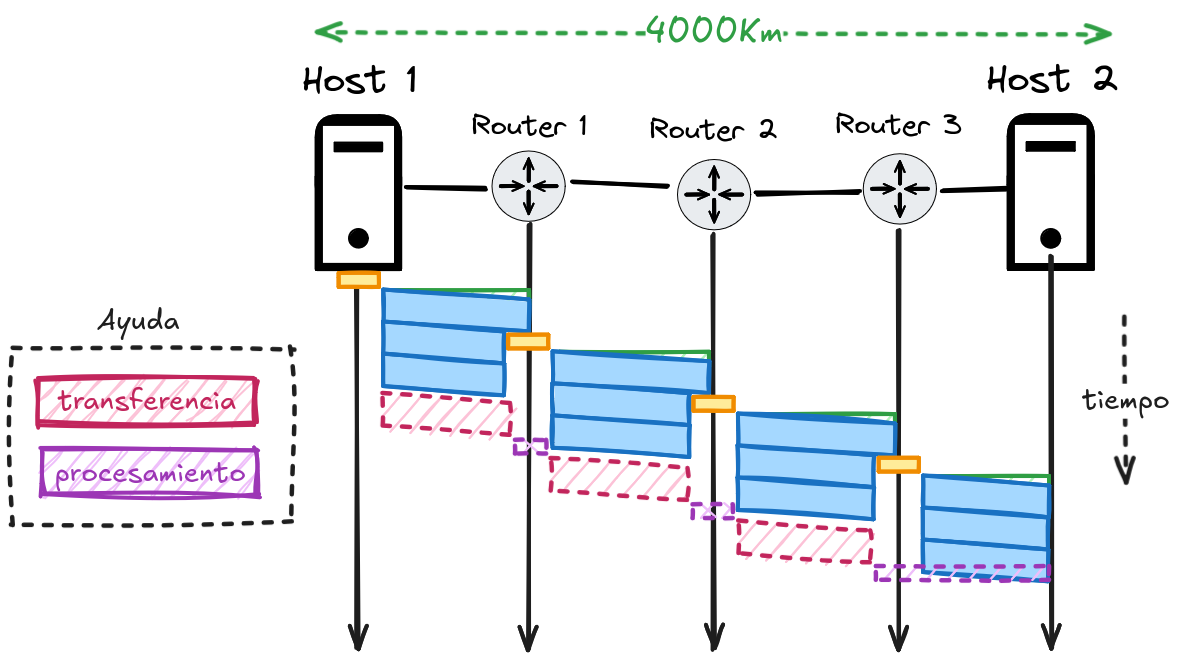
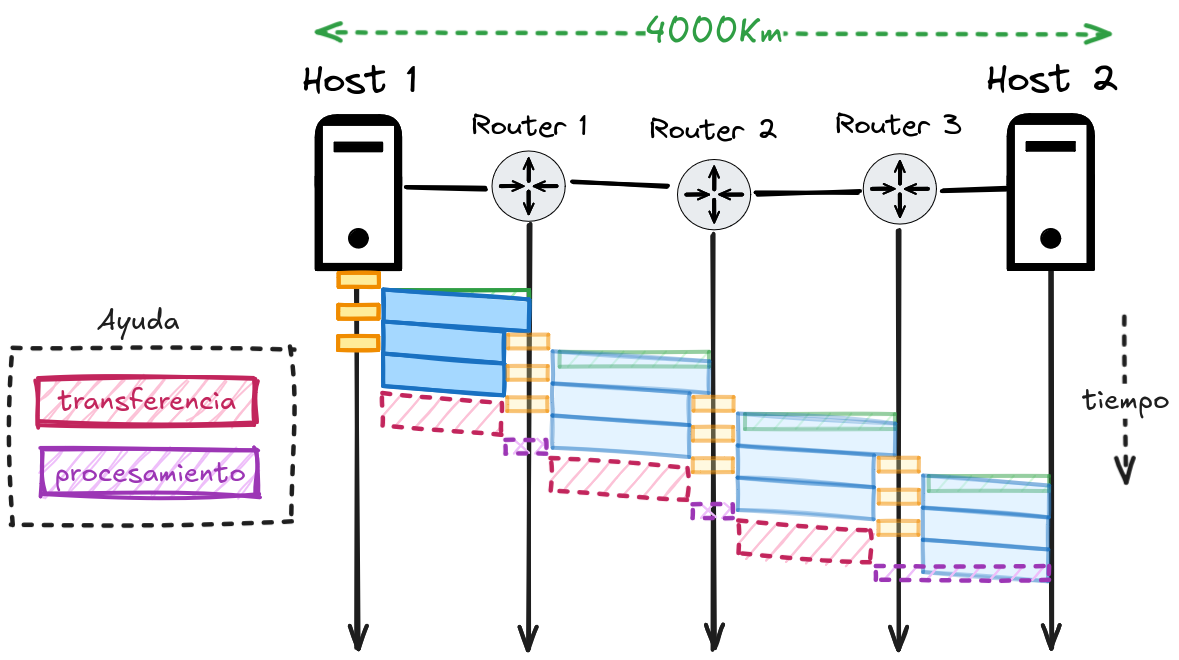
Fix wrong calculation

Changed region(s): [[0.3053, 0.4848, 0.916, 0.8788], [0.2748, 0.4545, 0.3359, 0.5455], [0.3359, 0.5758, 0.3664, 0.6061]]

diff --git a/tareas/tarea3/README.md b/tareas/tarea3/README.md
@@ -147,7 +147,7 @@ Esta forma de comunicación es similar a la anterior, pero en este caso se divid
 
 ![datagram switching](./datagram.png)
 
-Para calcular bien el retardo en este caso, hay que tomar en cuenta que el retardo de transmisión es el retardo de enviar todos los paquetes, más el retardo de enviart un paquete multiplicado por la cantidad de "saltos" menos 1. Esto se puede ver claramente en el diagrama anterior, por lo tanto:
+Para calcular bien el retardo en este caso, hay que tomar en cuenta que el retardo de transmisión es el retardo de enviar todos los paquetes, más el retardo de enviar un paquete multiplicado por la cantidad de "saltos" menos 1, incluyendo el procesamiento en estos ultimos paquetes. Esto se puede ver claramente en el diagrama anterior, por lo tanto:
 
 ### Calcular el retardo de transmisión
 
@@ -170,16 +170,13 @@ $$
 Por lo tanto, teniendo el tiempo que tarda en enviar un paquete, se puede calcular el retardo total, teniendo $m$ como la cantidad de "saltos" y $k$ la cantida de paquetes:
 
 $$
-\text{total delay} = d_{proc} \times k + d_{prop} + d_{trans} \times k + (m-1)  \times d_{trans}
+\text{total delay} =  d_{prop} + d_{trans} \times k + (m-1)  \times d_{trans} + (m-1) \times d_{proc}
 $$
 
 $$
-\text{total delay} = 0,3s \times 154 + 0,02s + 0,65s \times 154 + (4-1) \times 0,65s
+\text{total delay} =  0,02s + 0,65s \times 154 + (4-1) \times 0,65s + (4-1) \times 0,3s
 $$
 
 $$
-\text{total delay} = 46,2 + 0,02s + 100,1s + 1,95s = 148,27s
+\text{total delay} = 0,02s + 100,1s + 1,95s + 0,9s = 102,97s
 $$
-
-> [!NOTE]
-> Se multiplica el retardo de procesamiento por la cantidad de paquetes, se podría omitir este paso.
